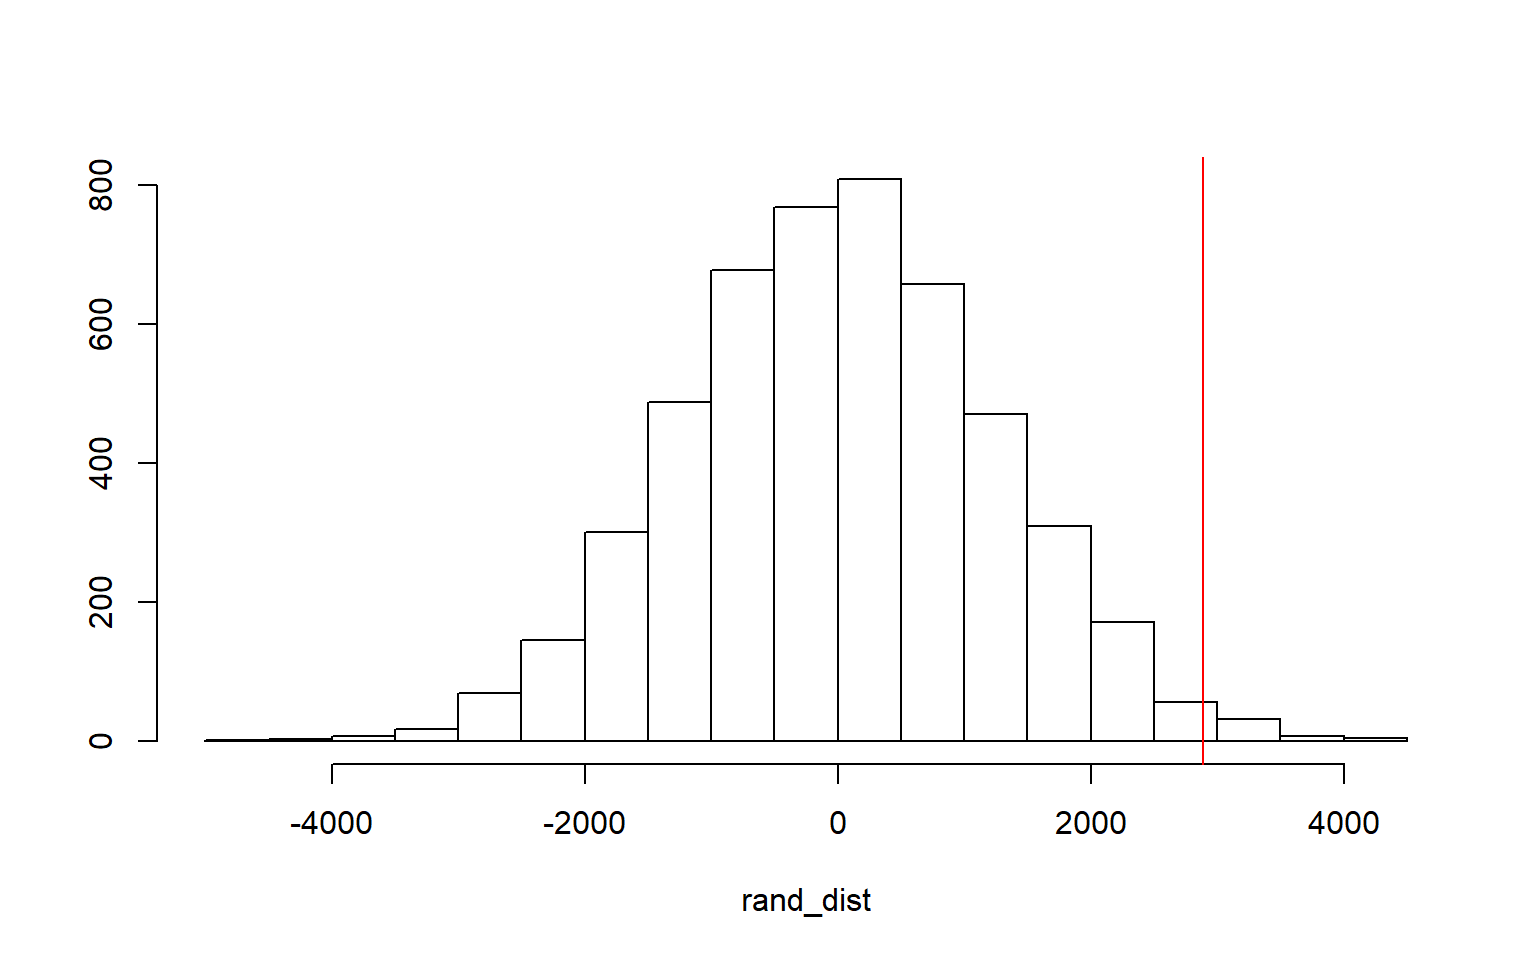
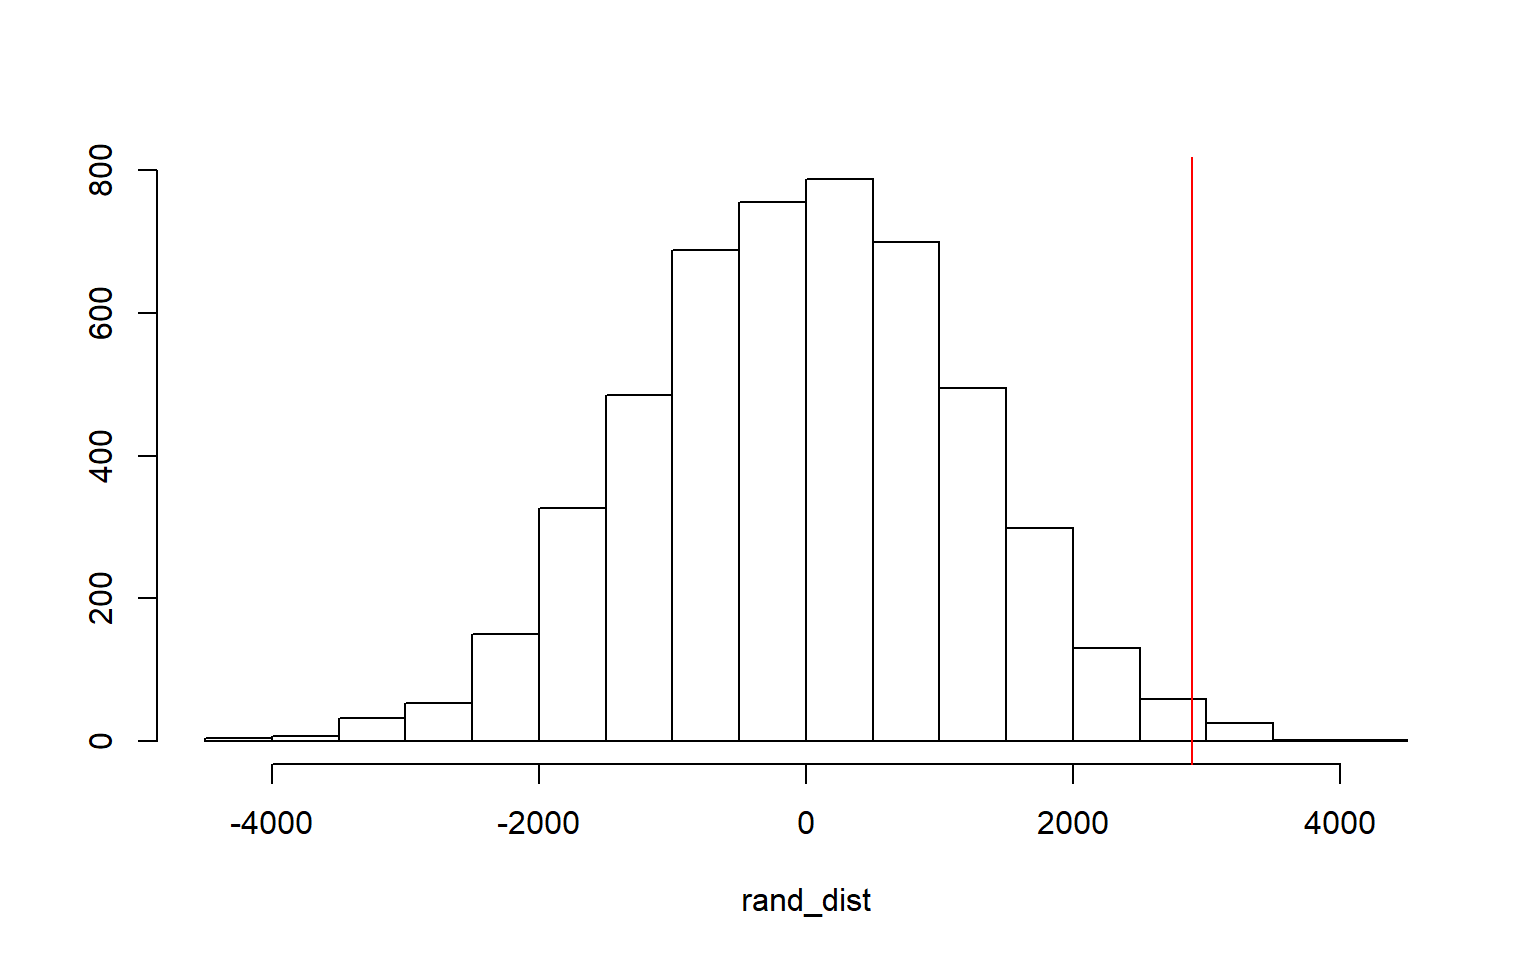
more changes

diff --git a/public/project1/index.html b/public/project1/index.html
@@ -61,7 +61,7 @@
         </div>
         <div class="blog-title">
           <h4>
-          January 1, 0001
+          October 20, 2019
             &nbsp;&nbsp;
             
           </h4>
@@ -72,6 +72,7 @@
               
 
 
+<p><img src="/./project1_files/sprout.jpg" width="300" height="100" /></p>
 <div id="introduction-for-this-data-analysis-project" class="section level2">
 <h2>Introduction for this Data Analysis Project:</h2>
 <p>In this project, I will be analyzing two datasets, <strong>lifeexpect</strong> and <strong>happiness2015</strong>. The dataset <strong>lifeexpect</strong> comes from the World Health Organization (WHO), and it contains information on global life expectancies. In addition, it contains a number of health variables contributing to the life expectancies. A few of these are GDP, diseases, schooling, and resources. The second dataset <strong>happiness2015</strong> comes from The World Happiness Report, and it consists of information on global happiness in addition to variables contributing to this happiness value. A few of these variables are scores for freedom, generosity, family, and trust in government.</p>
@@ -232,33 +233,33 @@ clusters &lt;- kmeans(happyxlife[,2,3], 10)
 
 kmeans1&lt;-happyxlife%&gt;%scale%&gt;%kmeans(10)
 kmeans1</code></pre>
-<pre><code>## K-means clustering with 10 clusters of sizes 15, 8, 18, 8, 23, 12, 16, 14, 13, 8
+<pre><code>## K-means clustering with 10 clusters of sizes 22, 8, 23, 10, 14, 7, 11, 5, 18, 17
 ## 
 ## Cluster means:
 ##    Life.expectancy Happiness.Score
-## 1       -0.5821797      -1.0170353
-## 2       -1.9812330      -0.6455950
-## 3        1.1976205       1.6056413
-## 4       -1.7054376      -1.6615847
-## 5        0.4178312      -0.5001663
-## 6        0.4840307       1.1076459
-## 7        0.4345863       0.3314094
-## 8       -0.2048546       0.2199844
-## 9       -1.0868759      -0.8285632
-## 10       1.4117968       0.6765612
+## 1        0.2615873       0.4454632
+## 2        1.4117968       0.6765612
+## 3        0.4712402      -0.4481765
+## 4       -1.2122854      -1.6408572
+## 5       -0.3164506      -0.3465924
+## 6       -2.0738748      -1.1420429
+## 7        0.4995711       1.1369139
+## 8       -1.7620874      -0.3086070
+## 9        1.1976205       1.6056413
+## 10      -0.8858558      -0.9125891
 ## 
 ## Clustering vector:
-##   [1]  3  3  5  5  8  8  5  5  7  7  5  5  8  8  5  7  5  7  5  5  7 10  1  8  5
-##  [26]  8  5 10  1  6  6 10  6  3  5  7  7  8  9  5  7  6  7  6  7  7  8  8  6  7
-##  [51]  7  5  1  3  5  6  5  8  5  6  6  6  5  7  6  1  3  1  8  7  1  8  3  6  1
-##  [76]  5  8  1  1  8  5  2  4  1  4  4  2  4  4  9  9  9  1  9  4  9  2  9  1  2
-## [101]  4  9  7  2  9  2  1  1  2  9  9  2  4  9  9  1  3  3 10  3  3 10  3  5  3
-## [126]  3 10  3 10  3  3  5 10  3  3
+##   [1]  9  9  3  3  5  1  3  3  1  3  3  3  1  5  3  1  3  1  3  3  1  2  5  5  5
+##  [26]  1  3  2  5  7  7  2  7  9  3  1  1  1 10  3  1  7  1  7  1  1  1  1  7  1
+##  [51]  1  3  5  9  3  1  3  1  3  7  7  7  3  3  7 10  9 10  5  1 10  5  9  7  4
+##  [76]  5  5  5  5  5  3  6  4 10  4  4  6  6  6 10 10 10 10 10  4 10  8 10  4  6
+## [101]  6 10  1  8  4  8  4 10  6 10 10  8  4  4  8 10  9  9  2  9  9  2  9  3  9
+## [126]  9  2  9  2  9  9  3  2  9  9
 ## 
 ## Within cluster sum of squares by cluster:
-##  [1] 2.7219870 1.8221297 1.3103230 1.8247384 3.5698654 0.8628159 0.9489192
-##  [8] 2.4858997 1.2396354 1.0635475
-##  (between_SS / total_SS =  93.3 %)
+##  [1] 2.1941560 1.0635475 3.5143651 1.8199017 1.7351699 1.2734162 0.7178647
+##  [8] 0.7063233 1.3103230 1.8326491
+##  (between_SS / total_SS =  94.0 %)
 ## 
 ## Available components:
 ## 

diff --git a/content/project1.html b/content/project1.html
@@ -1,7 +1,7 @@
 ---
 title: "Does Happiness Affect Life Expectancy?"
 author: "Tien Nguyen TN7898"
-date: "10/20/2019"
+date: "2019-10-20"
 output:
   html_document: default
   pdf_document: default
@@ -9,6 +9,7 @@ output:
 
 
 
+<p><img src="/./project1_files/sprout.jpg" width="300" height="100" /></p>
 <div id="introduction-for-this-data-analysis-project" class="section level2">
 <h2>Introduction for this Data Analysis Project:</h2>
 <p>In this project, I will be analyzing two datasets, <strong>lifeexpect</strong> and <strong>happiness2015</strong>. The dataset <strong>lifeexpect</strong> comes from the World Health Organization (WHO), and it contains information on global life expectancies. In addition, it contains a number of health variables contributing to the life expectancies. A few of these are GDP, diseases, schooling, and resources. The second dataset <strong>happiness2015</strong> comes from The World Happiness Report, and it consists of information on global happiness in addition to variables contributing to this happiness value. A few of these variables are scores for freedom, generosity, family, and trust in government.</p>
@@ -169,33 +170,33 @@ clusters &lt;- kmeans(happyxlife[,2,3], 10)
 
 kmeans1&lt;-happyxlife%&gt;%scale%&gt;%kmeans(10)
 kmeans1</code></pre>
-<pre><code>## K-means clustering with 10 clusters of sizes 15, 8, 18, 8, 23, 12, 16, 14, 13, 8
+<pre><code>## K-means clustering with 10 clusters of sizes 22, 8, 23, 10, 14, 7, 11, 5, 18, 17
 ## 
 ## Cluster means:
 ##    Life.expectancy Happiness.Score
-## 1       -0.5821797      -1.0170353
-## 2       -1.9812330      -0.6455950
-## 3        1.1976205       1.6056413
-## 4       -1.7054376      -1.6615847
-## 5        0.4178312      -0.5001663
-## 6        0.4840307       1.1076459
-## 7        0.4345863       0.3314094
-## 8       -0.2048546       0.2199844
-## 9       -1.0868759      -0.8285632
-## 10       1.4117968       0.6765612
+## 1        0.2615873       0.4454632
+## 2        1.4117968       0.6765612
+## 3        0.4712402      -0.4481765
+## 4       -1.2122854      -1.6408572
+## 5       -0.3164506      -0.3465924
+## 6       -2.0738748      -1.1420429
+## 7        0.4995711       1.1369139
+## 8       -1.7620874      -0.3086070
+## 9        1.1976205       1.6056413
+## 10      -0.8858558      -0.9125891
 ## 
 ## Clustering vector:
-##   [1]  3  3  5  5  8  8  5  5  7  7  5  5  8  8  5  7  5  7  5  5  7 10  1  8  5
-##  [26]  8  5 10  1  6  6 10  6  3  5  7  7  8  9  5  7  6  7  6  7  7  8  8  6  7
-##  [51]  7  5  1  3  5  6  5  8  5  6  6  6  5  7  6  1  3  1  8  7  1  8  3  6  1
-##  [76]  5  8  1  1  8  5  2  4  1  4  4  2  4  4  9  9  9  1  9  4  9  2  9  1  2
-## [101]  4  9  7  2  9  2  1  1  2  9  9  2  4  9  9  1  3  3 10  3  3 10  3  5  3
-## [126]  3 10  3 10  3  3  5 10  3  3
+##   [1]  9  9  3  3  5  1  3  3  1  3  3  3  1  5  3  1  3  1  3  3  1  2  5  5  5
+##  [26]  1  3  2  5  7  7  2  7  9  3  1  1  1 10  3  1  7  1  7  1  1  1  1  7  1
+##  [51]  1  3  5  9  3  1  3  1  3  7  7  7  3  3  7 10  9 10  5  1 10  5  9  7  4
+##  [76]  5  5  5  5  5  3  6  4 10  4  4  6  6  6 10 10 10 10 10  4 10  8 10  4  6
+## [101]  6 10  1  8  4  8  4 10  6 10 10  8  4  4  8 10  9  9  2  9  9  2  9  3  9
+## [126]  9  2  9  2  9  9  3  2  9  9
 ## 
 ## Within cluster sum of squares by cluster:
-##  [1] 2.7219870 1.8221297 1.3103230 1.8247384 3.5698654 0.8628159 0.9489192
-##  [8] 2.4858997 1.2396354 1.0635475
-##  (between_SS / total_SS =  93.3 %)
+##  [1] 2.1941560 1.0635475 3.5143651 1.8199017 1.7351699 1.2734162 0.7178647
+##  [8] 0.7063233 1.3103230 1.8326491
+##  (between_SS / total_SS =  94.0 %)
 ## 
 ## Available components:
 ## 

diff --git a/public/project2/index.html b/public/project2/index.html
@@ -61,7 +61,7 @@
         </div>
         <div class="blog-title">
           <h4>
-          January 1, 0001
+          November 25, 2019
             &nbsp;&nbsp;
             
           </h4>
@@ -72,6 +72,7 @@
               
 
 
+<p><img src="/./project2_files/alivshorde.jpg" width="300" height="100" /></p>
 <div id="introduction" class="section level2">
 <h2>Introduction:</h2>
 <p>In this project, I will be modeling, testing, and making predictions on a dataset created from observations on the game, <strong>World of Warcraft</strong>, which is a MMORPG created by <strong>Blizzard</strong>. This dataset contains information about battlegrounds, which are timed matches in an instanced area where players are able to compete against other players (PvP). Players are placed in teams on the basis of the faction that they belong to, the Alliance or the Horde, and their character’s level, so the matches consist of similar team compositions competing against one another. At the end of each battleground, there is a summary containing information for each of the players for both factions. I will be specifically looking at the numeric variables: <strong>Damage done, Healing done, Honorable kills, and Honor awarded</strong> and the categorical variable: <strong>Faction and Win</strong>.</p>
@@ -217,7 +218,7 @@ for (i in 1:5000) {
 }
 
 mean(rand_dist &gt; 2888.832) * 2</code></pre>
-<pre><code>## [1] 0.0224</code></pre>
+<pre><code>## [1] 0.0128</code></pre>
 <pre class="r"><code># Graphing
 {
     hist(rand_dist, main = &quot;&quot;, ylab = &quot;&quot;)
@@ -563,7 +564,7 @@ diags %&gt;% summarize_all(mean)</code></pre>
 ## [53] vctrs_0.2.0      generics_0.0.2   iterators_1.0.12 tools_3.6.2     
 ## [57] glue_1.3.1       hms_0.5.2        yaml_2.2.0       colorspace_1.4-1
 ## [61] rvest_0.3.5      haven_2.2.0</code></pre>
-<pre><code>## [1] &quot;2019-12-15 01:48:32 CST&quot;</code></pre>
+<pre><code>## [1] &quot;2019-12-15 02:29:56 CST&quot;</code></pre>
 <pre><code>##           sysname           release           version          nodename 
 ##         &quot;Windows&quot;          &quot;10 x64&quot;     &quot;build 17763&quot; &quot;LAPTOP-C6CPOL32&quot; 
 ##           machine             login              user    effective_user 

diff --git a/content/project2.html b/content/project2.html
@@ -1,12 +1,13 @@
 ---
 title: "World of Warcraft: Battlegrounds Analysis"
 author: "Tien Nguyen TN7898"
-date: "11/25/2019"
+date: "2019-11-25"
 output: html_document
 ---
 
 
 
+<p><img src="/./project2_files/alivshorde.jpg" width="300" height="100" /></p>
 <div id="introduction" class="section level2">
 <h2>Introduction:</h2>
 <p>In this project, I will be modeling, testing, and making predictions on a dataset created from observations on the game, <strong>World of Warcraft</strong>, which is a MMORPG created by <strong>Blizzard</strong>. This dataset contains information about battlegrounds, which are timed matches in an instanced area where players are able to compete against other players (PvP). Players are placed in teams on the basis of the faction that they belong to, the Alliance or the Horde, and their character’s level, so the matches consist of similar team compositions competing against one another. At the end of each battleground, there is a summary containing information for each of the players for both factions. I will be specifically looking at the numeric variables: <strong>Damage done, Healing done, Honorable kills, and Honor awarded</strong> and the categorical variable: <strong>Faction and Win</strong>.</p>
@@ -152,7 +153,7 @@ for (i in 1:5000) {
 }
 
 mean(rand_dist &gt; 2888.832) * 2</code></pre>
-<pre><code>## [1] 0.0224</code></pre>
+<pre><code>## [1] 0.0128</code></pre>
 <pre class="r"><code># Graphing
 {
     hist(rand_dist, main = &quot;&quot;, ylab = &quot;&quot;)
@@ -498,7 +499,7 @@ diags %&gt;% summarize_all(mean)</code></pre>
 ## [53] vctrs_0.2.0      generics_0.0.2   iterators_1.0.12 tools_3.6.2     
 ## [57] glue_1.3.1       hms_0.5.2        yaml_2.2.0       colorspace_1.4-1
 ## [61] rvest_0.3.5      haven_2.2.0</code></pre>
-<pre><code>## [1] &quot;2019-12-15 01:48:32 CST&quot;</code></pre>
+<pre><code>## [1] &quot;2019-12-15 02:29:56 CST&quot;</code></pre>
 <pre><code>##           sysname           release           version          nodename 
 ##         &quot;Windows&quot;          &quot;10 x64&quot;     &quot;build 17763&quot; &quot;LAPTOP-C6CPOL32&quot; 
 ##           machine             login              user    effective_user 

diff --git a/content/resume.html b/content/resume.html
@@ -7,9 +7,10 @@ output: html_document
 
 
 
+<p><img src="/./resume_files/angel.jpg" width="250" height="375" /></p>
 <div id="background" class="section level2">
 <h2>Background</h2>
-<p>I graduated from the University of Texas at Austin with a Bachelor of Science and Arts in Biology. I am a pre-med student with hopes of attending medical school in my near future. Aside from school work, I am quite involved with a local animal shelter in Austin, TX. I volunteer and foster for Austin Pets Alive! and it is so rewarding. In my free time, I love reading, watching documentaries, and playing video games.</p>
+<p>I graduated from the University of Texas at Austin with a Bachelor of Science and Arts in Biology. I am a pre-med student with hopes of attending medical school in my near future. Aside from school work, I am quite involved with a local animal shelter in Austin, TX. I volunteer and foster for Austin Pets Alive! and it is so rewarding. I am a huge advocate for adopting animals and have two of my own! I have a pup named Maximus and a kitty named Maeby. In my free time, I love reading, watching documentaries, and playing video games.</p>
 <hr />
 </div>
 <div id="experience" class="section level2">

diff --git a/public/resume/index.html b/public/resume/index.html
@@ -72,9 +72,10 @@
               
 
 
+<p><img src="/./resume_files/angel.jpg" width="250" height="375" /></p>
 <div id="background" class="section level2">
 <h2>Background</h2>
-<p>I graduated from the University of Texas at Austin with a Bachelor of Science and Arts in Biology. I am a pre-med student with hopes of attending medical school in my near future. Aside from school work, I am quite involved with a local animal shelter in Austin, TX. I volunteer and foster for Austin Pets Alive! and it is so rewarding. In my free time, I love reading, watching documentaries, and playing video games.</p>
+<p>I graduated from the University of Texas at Austin with a Bachelor of Science and Arts in Biology. I am a pre-med student with hopes of attending medical school in my near future. Aside from school work, I am quite involved with a local animal shelter in Austin, TX. I volunteer and foster for Austin Pets Alive! and it is so rewarding. I am a huge advocate for adopting animals and have two of my own! I have a pup named Maximus and a kitty named Maeby. In my free time, I love reading, watching documentaries, and playing video games.</p>
 <hr />
 </div>
 <div id="experience" class="section level2">

diff --git a/public/blog/index.html b/public/blog/index.html
@@ -59,19 +59,6 @@
               <div class="row">
                 <div class="col-sm-4 col-md-4 col-lg-4">
                   <h5 style="text-align: right">
-                    December 15, 2019
-                  </h5>
-                 </div>
-                 <div class="col-sm-8 col-md-8 col-lg-8">
-                   <h5 style="text-align: left">
-                    <strong><a href="/blog/about-me/">About Me!</a></strong>
-                  </h5>
-                </div>
-              </div>
-            
-              <div class="row">
-                <div class="col-sm-4 col-md-4 col-lg-4">
-                  <h5 style="text-align: right">
                     December 14, 2019
                   </h5>
                  </div>

diff --git a/public/blog/python-blog/index.html b/public/blog/python-blog/index.html
@@ -72,7 +72,12 @@
               
 
 
-<p>##Hey what’s up!</p>
+<p><img src="/blog/2019-12-14-python-blog_files/pythonimage.jpg" /></p>
+<hr />
+<div id="introduction" class="section level2">
+<h2>Introduction:</h2>
+<p>In this blog, I will be writing about what I have learned in a Computational Biology course I took. Now if you were expecting a blog about snakes, I am sorry to disappoint; however, I promise this blog about the language Python is just as riveting! In this course, we were briefly introduced to Python. I will be including a few things that I found were interesting in this blog post.</p>
+</div>
 
               <hr>
               <div class="related-posts">

diff --git a/content/blog/2019-12-14-python-blog.html b/content/blog/2019-12-14-python-blog.html
@@ -10,4 +10,9 @@ description: ''
 
 
 
-<p>##Hey what’s up!</p>
+<p><img src="/blog/2019-12-14-python-blog_files/pythonimage.jpg" /></p>
+<hr />
+<div id="introduction" class="section level2">
+<h2>Introduction:</h2>
+<p>In this blog, I will be writing about what I have learned in a Computational Biology course I took. Now if you were expecting a blog about snakes, I am sorry to disappoint; however, I promise this blog about the language Python is just as riveting! In this course, we were briefly introduced to Python. I will be including a few things that I found were interesting in this blog post.</p>
+</div>

diff --git a/public/projects/index.html b/public/projects/index.html
@@ -59,6 +59,7 @@
     <div class="panel panel-default">
       <div class="panel-body">
       <h1 id="--projects--"><strong>Projects</strong></h1>
+<hr>
 <h3 id="below-are-some-projects-that-i-have-completed">Below are some projects that I have completed:</h3>
 <ul>
 <li>

diff --git a/content/projects.md b/content/projects.md
@@ -6,7 +6,7 @@ title: "Projects"
 showpagemeta: false
 ---
 # __Projects__ 
-
+---
 ### Below are some projects that I have completed:
 
 - [Does Happiness Affect Life Expectancy?](/Project1/)
